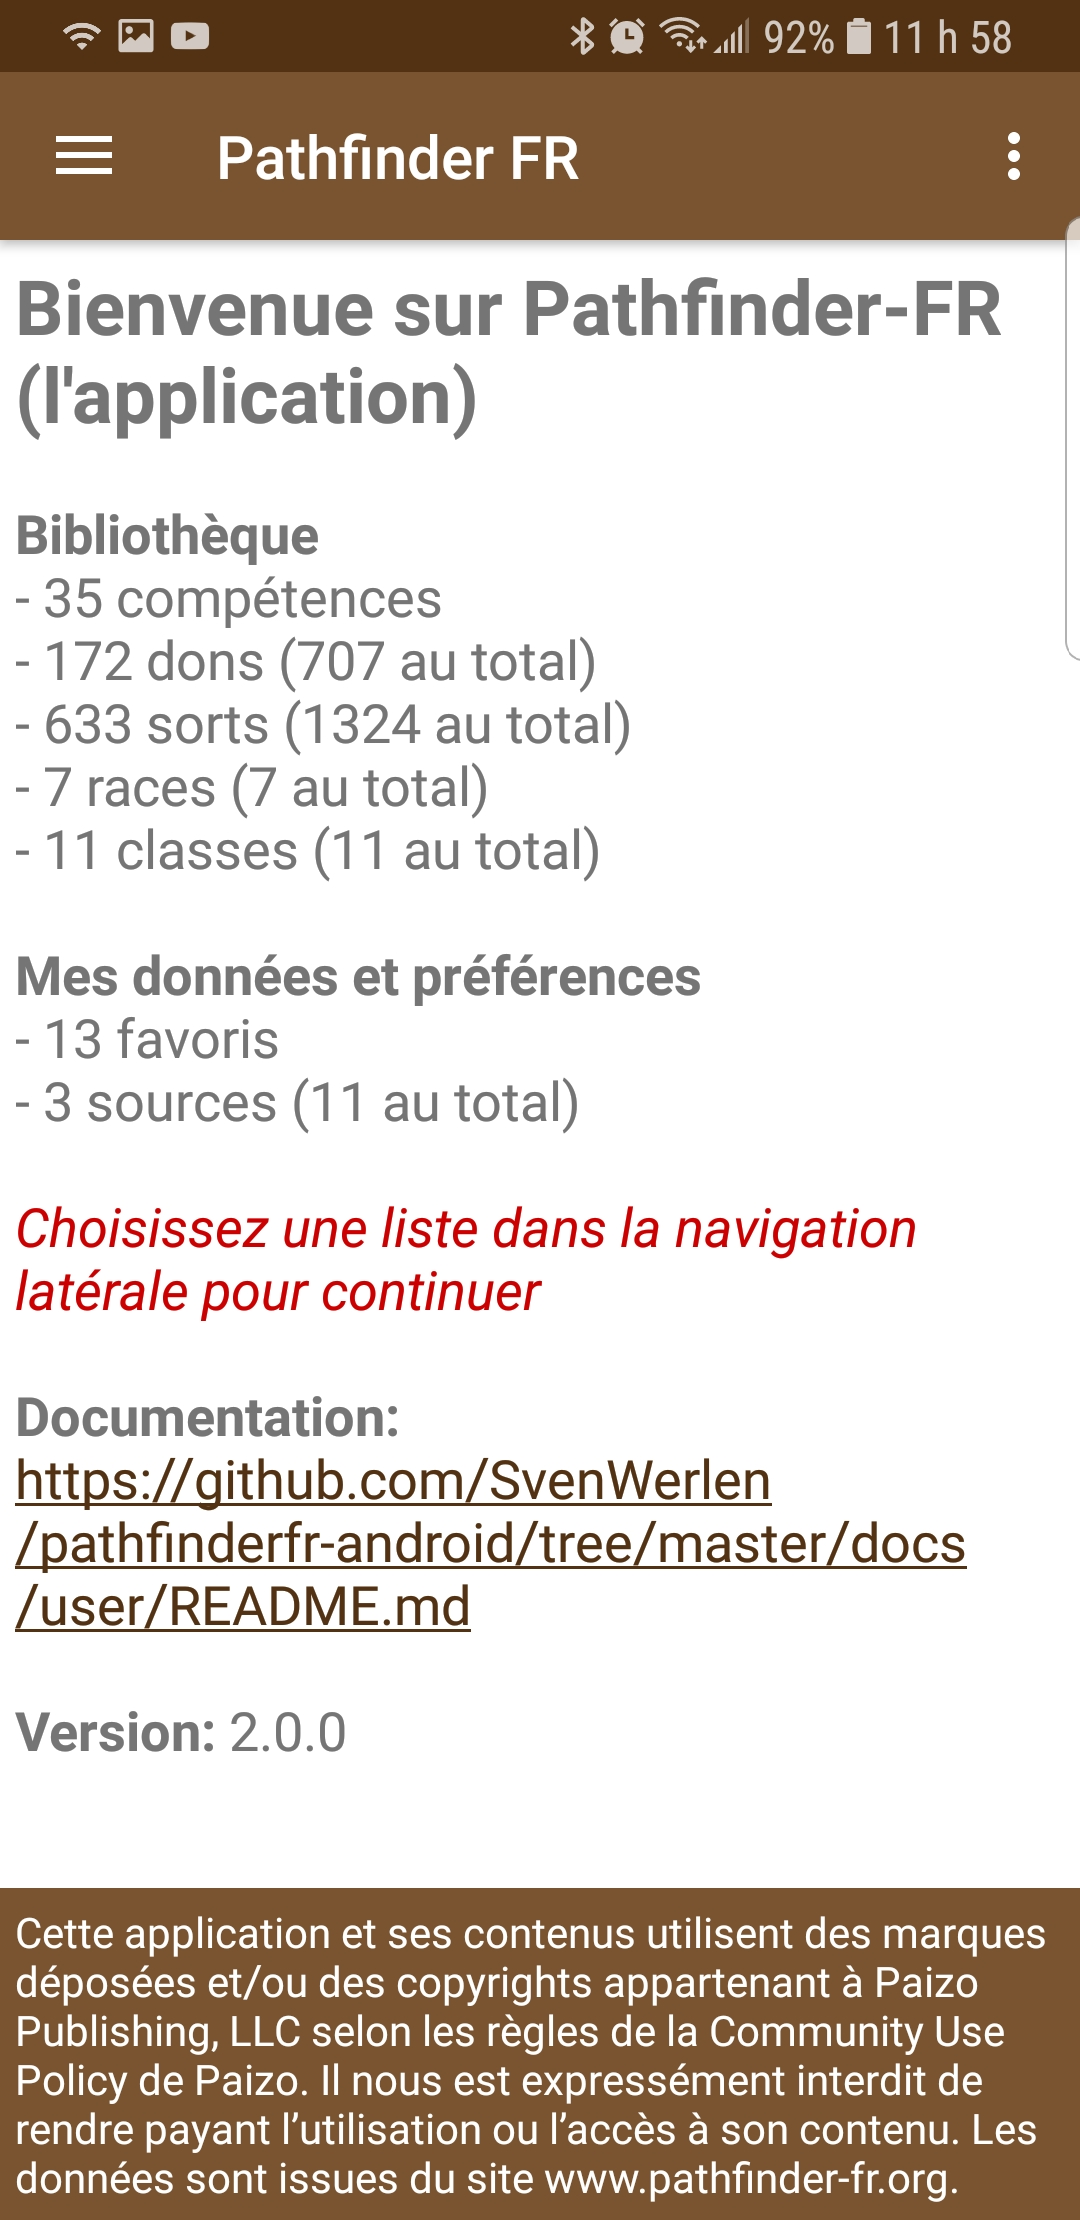
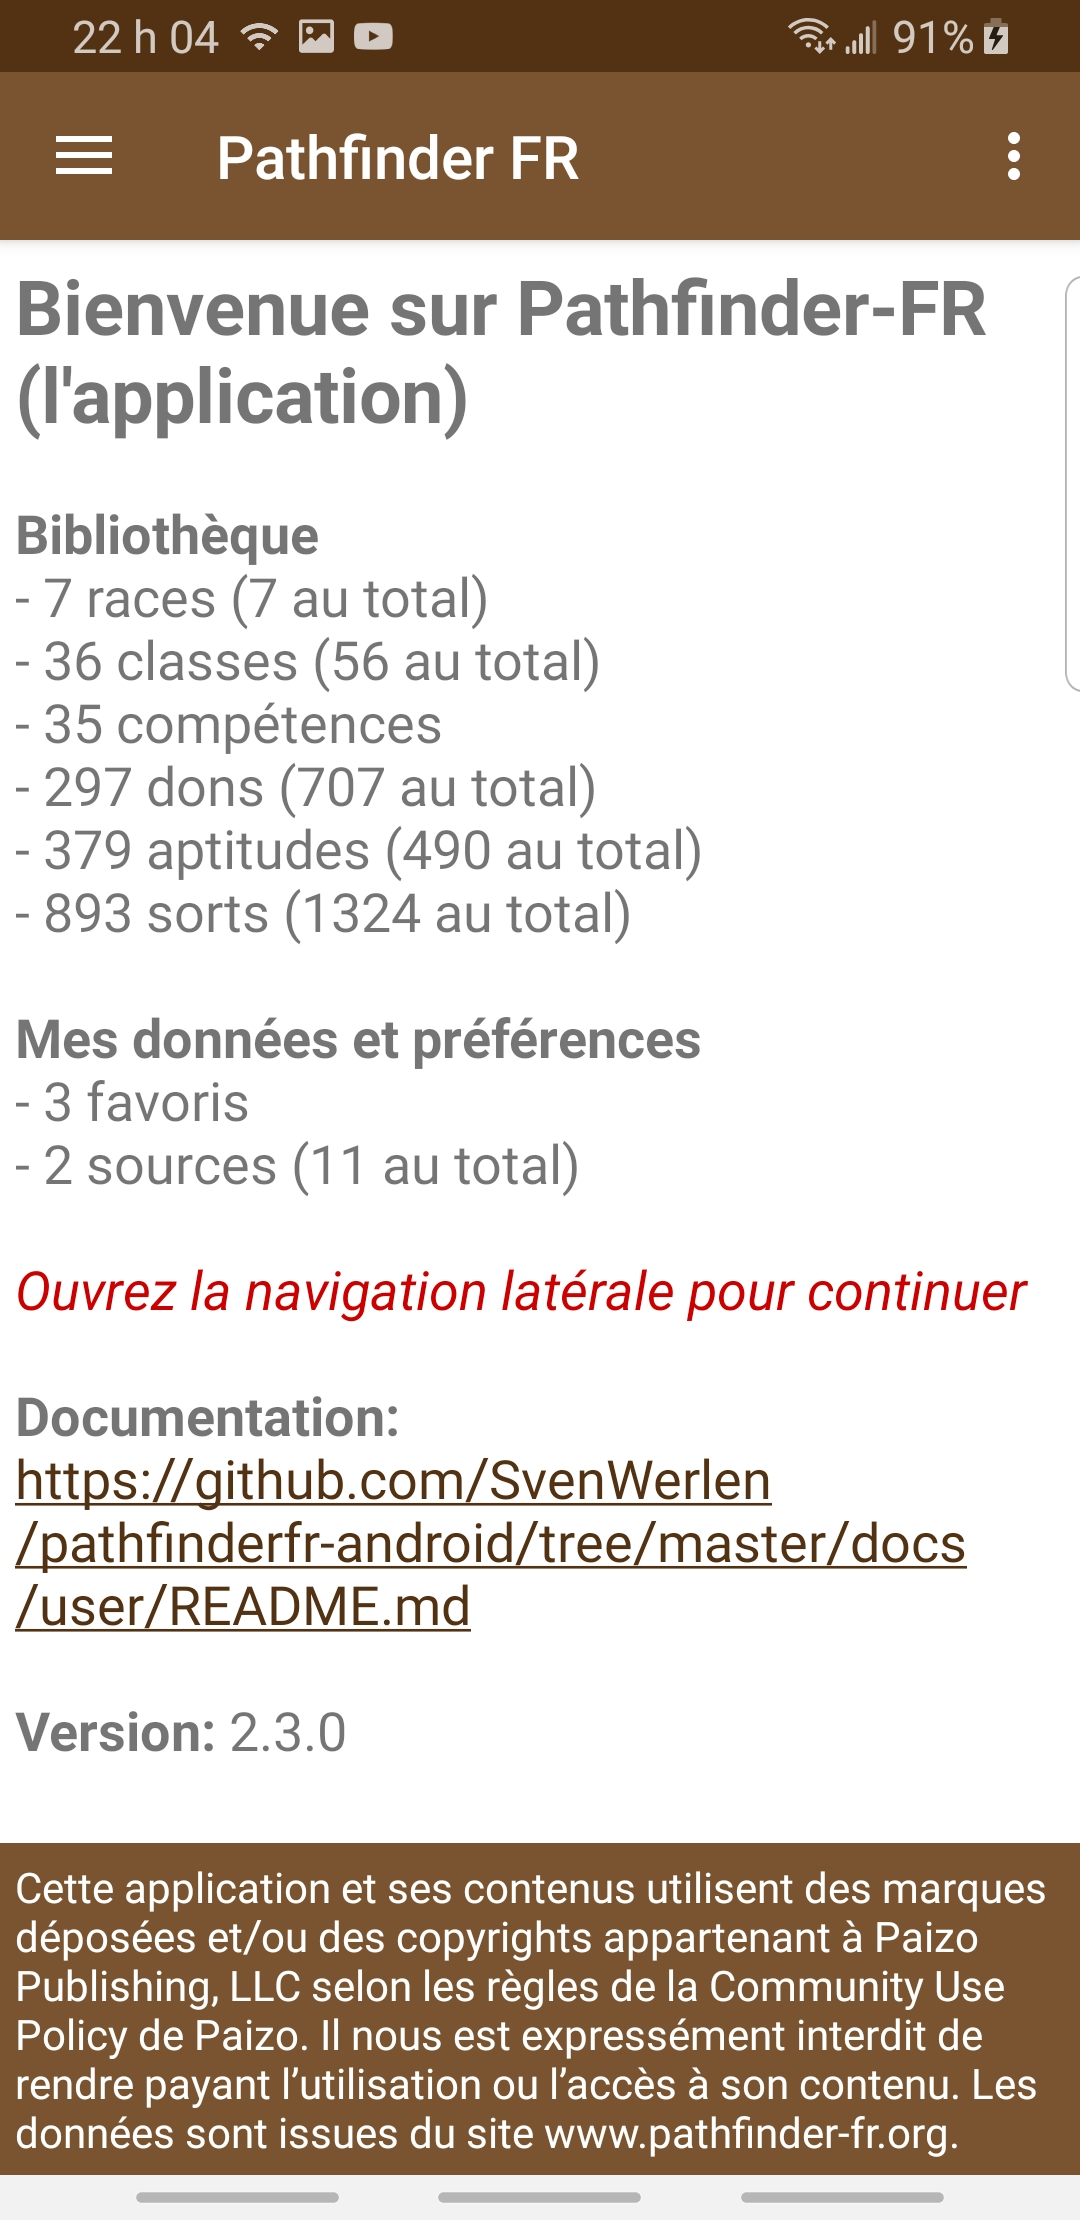
Update Docs for new features

diff --git a/docs/user/characters.md b/docs/user/characters.md
@@ -62,9 +62,21 @@ La gestion des dons s'effectue à partir du troisième onglet (au bas de l'écra
 ![Liste des dons](../images/characters/12-character-feats-list_small.jpg)
 ![Filtrer les dons](../images/characters/13-character-feats-filters_small.jpg)
 
+## Aptitudes
+
+La gestion des aptitudes s'effectue à partir du quatrième onglet (au bas de l'écran).
+* L'ajout d'une aptitude s'effectue comme pour les dons. À partir du catalogue des aptitudes dans la bibliothèque, il est possible de trouver une aptitude à ajouter. Pour l'ajouter, il suffira alors de cliquer sur l'icône d'action correspondante (2ième mini-icône ressemblant à une carte d'identité)
+* Les aptitudes de classe automatique sont affichées en fonction de votre/vos classe(s) sans que vous ayiez besoin de les ajouter 
+* En cliquant sur barre d'en-tête (ou se trouve la mini icône _filtre_), une fenêtre vous permet de configurer les filtres de dons 
+  * **Favoris**: permet d'afficher uniquement les dons que vous avez séléctionné comme favoris
+
+![Liste des aptitudes](../images/characters/18-character-classfeatures-list_small.jpg)
+![Filtrer les aptitudes](../images/characters/19-character-classfeatures-filters_small.jpg)
+![Visionner une aptitude](../images/characters/20-character-classfeature_small.jpg)
+
 ## Sorts
 
-L'ajout de sorts s'effectue à partir du quatrième onglet (au bas de l'écran).
+L'ajout de sorts s'effectue à partir du cinquième onglet (au bas de l'écran).
 * En cliquant sur barre d'en-tête (ou se trouve la mini icône _filtre_), une fenêtre vous permet de configurer les filtres de sorts mais également adapter l'affichage
   * **Favoris**: permet d'afficher uniquement les dons que vous avez séléctionné comme favoris
   * **Affichage**: permet de choisir l'affichage par niveau et école (pratique pour les magiciens et ensorceleurs) ou uniquement par niveau (généralement pour les autres classes)
@@ -74,3 +86,4 @@ L'ajout de sorts s'effectue à partir du quatrième onglet (au bas de l'écran).
 ![Filtrer les sorts et gérer l'affichage](../images/characters/15-character-spells-filters_small.jpg)
 ![Liste des sorts (par niveau uniquement)](../images/characters/16-character-spells-flat_small.jpg)
 ![Sélectionner les favoris](../images/characters/17-character-spells-favorites_small.jpg)
+

diff --git a/docs/user/README.md b/docs/user/README.md
@@ -71,5 +71,5 @@ navigation latérale permettra d'accéder aux différentes rubriques (compétenc
   
   * **Général | Afficher l'avertissement**: permet de désactiver l'avertissement (_disclaimer/copyright_) au bas de la page d'accueil.
   * **Général | Nom long dans les listes**: affiche un nom long dans les listes. Exemple: affiche le niveau du sort directement dans la liste. 
-  * **Général | Détail des compétences, dons, sorts**: affiche le mode détaillé par défaut (voir ci-dessus). Évite de devoir cliquer systématiquement sur le bouton _plus_ pour voir les métadonnées.
+  * **Général | Détail des compétences, dons, sorts**: affiche le mode détaillé par défaut (voir ci-dessus). Recommandé!
   * **Sources de données**: permet d'activer/désactiver les sources de données avec lesquelles vous jouez. Par exemple, désactiver "Art de la magie" permet de masquer tous les sorts qui proviennent de cette extension.
